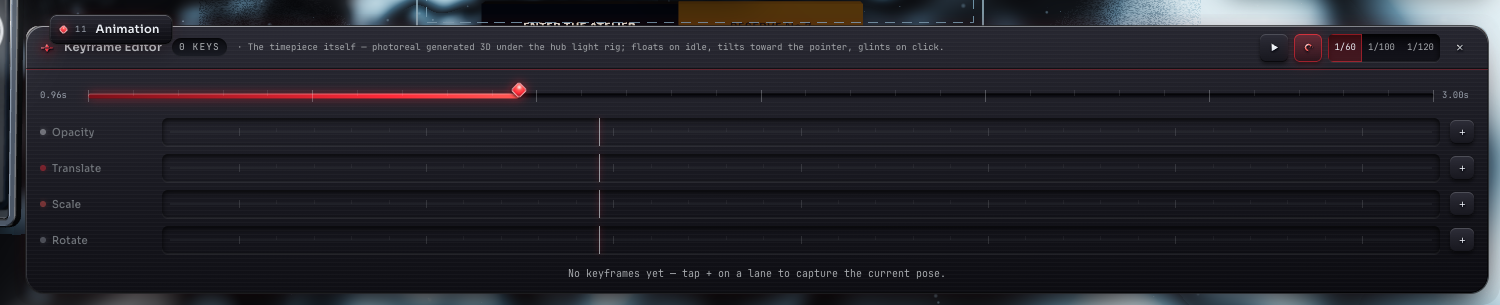
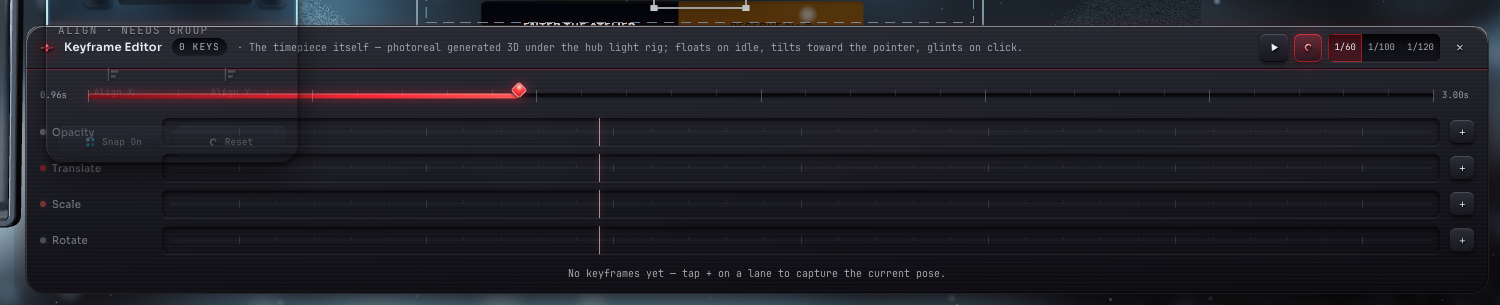
masterpiece-m1: judge round 2 MUST-FIX — the transform gizmo yields while the DetailCard is up on compact (same yield idiom as the camera HUD; saturated axis arrows no longer read through the translucent card); recaptured mobile overview in the exact flagged state (edit mode + card open)

diff --git a/kid-kode-landing/src/components/editor/graph/GraphScene.tsx b/kid-kode-landing/src/components/editor/graph/GraphScene.tsx
@@ -44,6 +44,7 @@ import {
   GIZMO_ROTATE_SNAP,
   GIZMO_SCALE_SNAP,
 } from '@/stores/useGraphEditorStore';
+import { useEditorDensity } from '@/stores/useEditorLayoutStore';
 import { useElementImageStore } from '@/stores/useElementImageStore';
 import {
   usePreviewStateStore,
@@ -2541,6 +2542,15 @@ function CanvasTransformGizmo({ nodes }: { nodes: PrismNode[] }) {
   const viewMode = useGraphEditorStore((s) => s.viewMode);
   const editorMode = useGraphEditorStore((s) => s.editorMode);
   const selectedNodeId = useGraphEditorStore((s) => s.selectedNodeId);
+  // MASTERPIECE M-1 (advocate MUST-FIX, one-layer-per-band on compact): on a
+  // compact pane the selection DetailCard shares the band the gizmo's axis
+  // arrows sweep through, and the saturated arrows read straight through the
+  // translucent card. While the card is up, the gizmo yields — the same yield
+  // idiom the camera HUD uses; it remounts the moment the card closes (open
+  // the Inspector or deselect).
+  const density = useEditorDensity();
+  const inspectorOpenForYield = useGraphEditorStore((s) => s.inspectorOpen);
+  const compactCardUp = density === 'compact' && !inspectorOpenForYield;
   // EDITOR-EXP P4 (C22 / D-DRAG) — Transform tools author the node's OWN schema
   // field (scenePosition), but now via the STAGING overlay (usePreviewStateStore),
   // not a direct source write. (STEP8 canvas-spec SC-9 named scenePosition the
@@ -2676,7 +2686,8 @@ function CanvasTransformGizmo({ nodes }: { nodes: PrismNode[] }) {
   }, [isCanvasMode, isEditMode, nodeId, stagePreview, setMode, toggleGizmoSpace, node]);
 
   // STEP8 — never mount handles on a locked node (canvas-spec §5 lock/unlock).
-  if (!isCanvasMode || !isEditMode || !node || isLocked) return null;
+  // M-1: on compact the gizmo also yields while the DetailCard is up (above).
+  if (!isCanvasMode || !isEditMode || !node || isLocked || compactCardUp) return null;
 
   const sp = readSceneTransform(node);
   const ct = readCanvasTransform(node);
